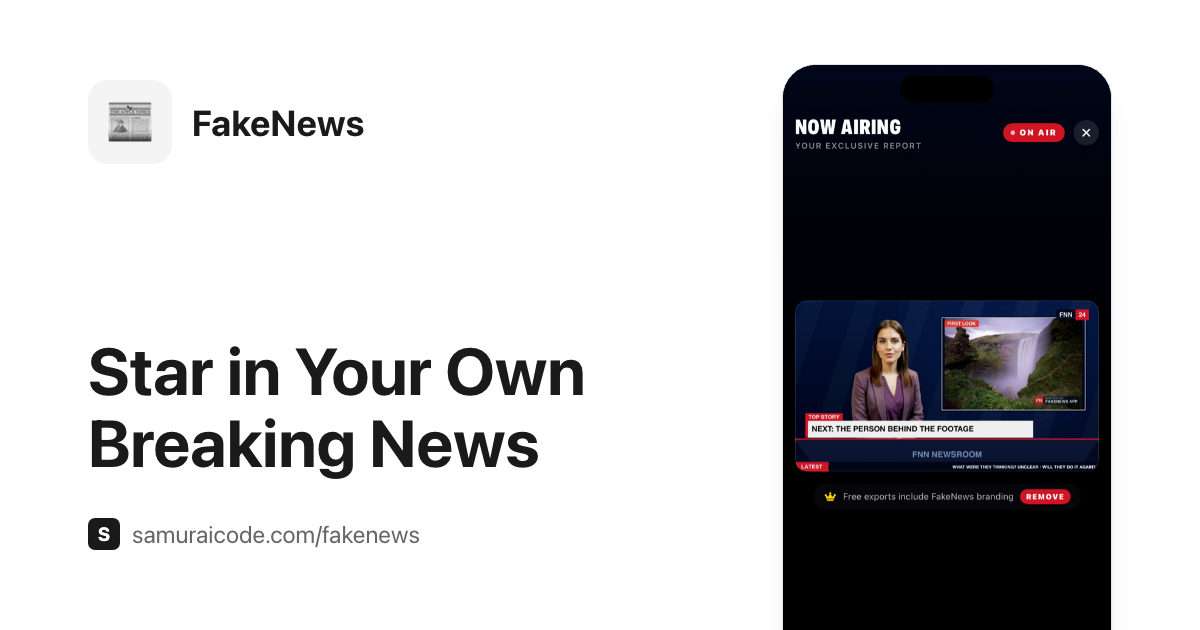
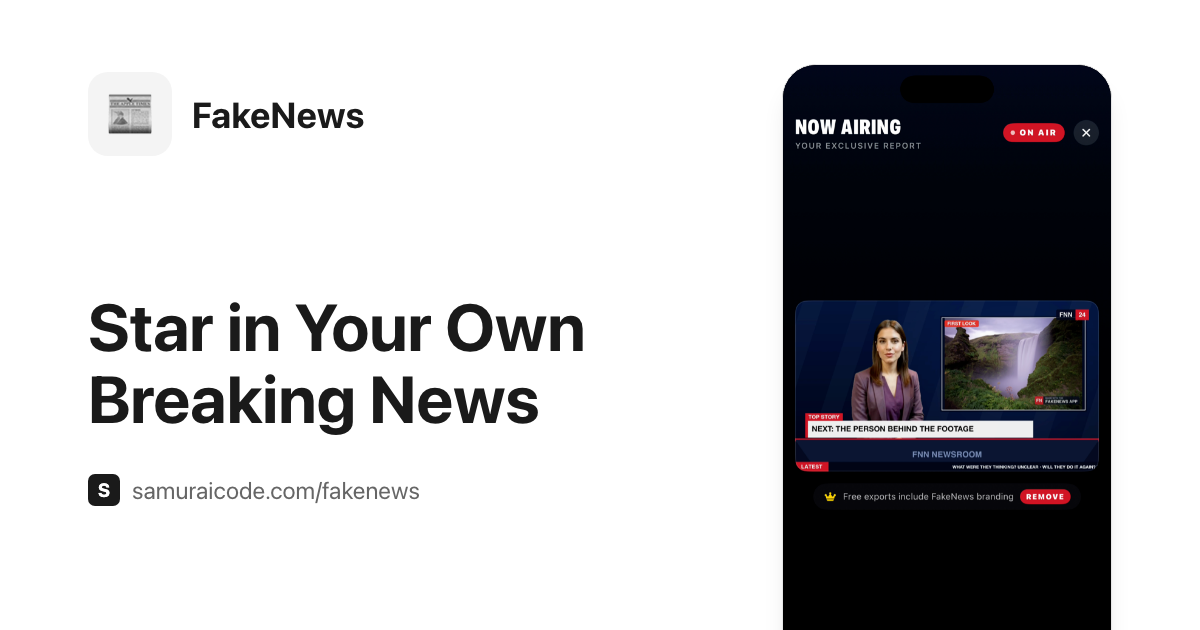
Clear X title overlay on share images and add Pinterest pins
Raise share image content so X's bottom-left title label doesn't crowd
it. Add 1000x1500 pins for each app page, attached to the screenshots
via data-pin-media.

Changed region(s): [[0.0617, 0.4825, 0.4933, 0.8746], [0.1542, 0.1508, 0.3083, 0.2413], [0.0925, 0.1508, 0.1233, 0.2413]]

diff --git a/scoreitquick/index.html b/scoreitquick/index.html
@@ -414,17 +414,17 @@
             <h2>See It in Action</h2>
             <div class="phone-mockup">
                 <div class="phone-screen">
-                    <img src="../images/scoreitquick/screenshot-1.png" alt="Colorful player list sorted by score" width="1320" height="2868" loading="lazy">
+                    <img src="../images/scoreitquick/screenshot-1.png" alt="Colorful player list sorted by score" width="1320" height="2868" loading="lazy" data-pin-media="https://samuraicode.com/images/pin-scoreitquick.png" data-pin-description="The fastest way to keep score. Built-in scoring for Flip 7, Wingspan, Finspan, Wyrmspan, Yahtzee, and more, or go free-form with Custom Game. For iPhone and iPad.">
                 </div>
             </div>
             <div class="phone-mockup">
                 <div class="phone-screen">
-                    <img src="../images/scoreitquick/screenshot-2.png" alt="Choosing from built-in game templates" width="1320" height="2868" loading="lazy">
+                    <img src="../images/scoreitquick/screenshot-2.png" alt="Choosing from built-in game templates" width="1320" height="2868" loading="lazy" data-pin-media="https://samuraicode.com/images/pin-scoreitquick.png" data-pin-description="The fastest way to keep score. Built-in scoring for Flip 7, Wingspan, Finspan, Wyrmspan, Yahtzee, and more, or go free-form with Custom Game. For iPhone and iPad.">
                 </div>
             </div>
             <div class="phone-mockup">
                 <div class="phone-screen">
-                    <img src="../images/scoreitquick/screenshot-3.png" alt="Category comparison grid for Wingspan" width="1320" height="2868" loading="lazy">
+                    <img src="../images/scoreitquick/screenshot-3.png" alt="Category comparison grid for Wingspan" width="1320" height="2868" loading="lazy" data-pin-media="https://samuraicode.com/images/pin-scoreitquick.png" data-pin-description="The fastest way to keep score. Built-in scoring for Flip 7, Wingspan, Finspan, Wyrmspan, Yahtzee, and more, or go free-form with Custom Game. For iPhone and iPad.">
                 </div>
             </div>
         </div>

diff --git a/fakenews/index.html b/fakenews/index.html
@@ -426,17 +426,17 @@
             <h2>Tonight's Top Story: You</h2>
             <div class="phone-mockup">
                 <div class="phone-screen">
-                    <img src="../images/fakenews/screenshot-1.png" alt="Finished broadcast playing with share options" width="540" height="1173" loading="lazy">
+                    <img src="../images/fakenews/screenshot-1.png" alt="Finished broadcast playing with share options" width="540" height="1173" loading="lazy" data-pin-media="https://samuraicode.com/images/pin-fakenews.png" data-pin-description="Star in your own breaking news. Drop your clip into a parody news broadcast, write the headlines, and share the laughs. For entertainment only.">
                 </div>
             </div>
             <div class="phone-mockup">
                 <div class="phone-screen">
-                    <img src="../images/fakenews/screenshot-2.png" alt="Editor with your clip in the broadcast and a custom headline" width="540" height="1173" loading="lazy">
+                    <img src="../images/fakenews/screenshot-2.png" alt="Editor with your clip in the broadcast and a custom headline" width="540" height="1173" loading="lazy" data-pin-media="https://samuraicode.com/images/pin-fakenews.png" data-pin-description="Star in your own breaking news. Drop your clip into a parody news broadcast, write the headlines, and share the laughs. For entertainment only.">
                 </div>
             </div>
             <div class="phone-mockup">
                 <div class="phone-screen">
-                    <img src="../images/fakenews/screenshot-3.png" alt="Template gallery of parody news broadcasts" width="540" height="1173" loading="lazy">
+                    <img src="../images/fakenews/screenshot-3.png" alt="Template gallery of parody news broadcasts" width="540" height="1173" loading="lazy" data-pin-media="https://samuraicode.com/images/pin-fakenews.png" data-pin-description="Star in your own breaking news. Drop your clip into a parody news broadcast, write the headlines, and share the laughs. For entertainment only.">
                 </div>
             </div>
         </div>

diff --git a/toomanyzombies/index.html b/toomanyzombies/index.html
@@ -477,17 +477,17 @@
             <h2>Night Is Coming</h2>
             <div class="phone-mockup">
                 <div class="phone-screen">
-                    <img src="../images/toomanyzombies/screenshot-1.png" alt="Your turn: a haul of supplies and one zombie grab" width="552" height="1200" loading="lazy">
+                    <img src="../images/toomanyzombies/screenshot-1.png" alt="Your turn: a haul of supplies and one zombie grab" width="552" height="1200" loading="lazy" data-pin-media="https://samuraicode.com/images/pin-toomanyzombies.png" data-pin-description="A push-your-luck dice game where you play the survivor. Roll for supplies, dodge the grabs, and live through the night.">
                 </div>
             </div>
             <div class="phone-mockup">
                 <div class="phone-screen">
-                    <img src="../images/toomanyzombies/screenshot-2.png" alt="Night summary: the horde grows and both survivors eat" width="552" height="1200" loading="lazy">
+                    <img src="../images/toomanyzombies/screenshot-2.png" alt="Night summary: the horde grows and both survivors eat" width="552" height="1200" loading="lazy" data-pin-media="https://samuraicode.com/images/pin-toomanyzombies.png" data-pin-description="A push-your-luck dice game where you play the survivor. Roll for supplies, dodge the grabs, and live through the night.">
                 </div>
             </div>
             <div class="phone-mockup">
                 <div class="phone-screen">
-                    <img src="../images/toomanyzombies/screenshot-3.png" alt="Start screen: pick a mode, a bot and your survivor" width="552" height="1200" loading="lazy">
+                    <img src="../images/toomanyzombies/screenshot-3.png" alt="Start screen: pick a mode, a bot and your survivor" width="552" height="1200" loading="lazy" data-pin-media="https://samuraicode.com/images/pin-toomanyzombies.png" data-pin-description="A push-your-luck dice game where you play the survivor. Roll for supplies, dodge the grabs, and live through the night.">
                 </div>
             </div>
         </div>

diff --git a/_share-images/pin.html b/_share-images/pin.html
@@ -1,0 +1,74 @@
+<!DOCTYPE html>
+<html lang="en">
+<head>
+<meta charset="UTF-8">
+<style>
+    * { margin: 0; padding: 0; box-sizing: border-box; }
+    html, body { width: 1000px; height: 1500px; overflow: hidden; }
+    body {
+        font-family: -apple-system, BlinkMacSystemFont, 'Segoe UI', Roboto, sans-serif;
+        color: #1a1a1a;
+        background: #ffffff;
+        -webkit-font-smoothing: antialiased;
+        position: relative;
+        padding: 96px 88px 0;
+    }
+    .app {
+        display: flex;
+        align-items: center;
+        gap: 24px;
+    }
+    .icon {
+        width: 112px;
+        height: 112px;
+        border-radius: 26px;
+        background: #f4f4f4;
+        display: grid;
+        place-items: center;
+        font-size: 60px;
+        line-height: 1;
+    }
+    .name { font-size: 48px; font-weight: 700; }
+    h1 {
+        margin-top: 64px;
+        font-size: 92px;
+        line-height: 1.06;
+        font-weight: 700;
+    }
+    .by {
+        margin-top: 40px;
+        display: flex;
+        align-items: center;
+        gap: 14px;
+        font-size: 32px;
+        color: #666;
+    }
+    .by img { width: 40px; height: 40px; display: block; }
+    .shot {
+        position: absolute;
+        left: 50%;
+        top: 664px;
+        transform: translateX(-50%);
+        width: 520px;
+        border-radius: 52px;
+        border: 1px solid #e5e5e5;
+        overflow: hidden;
+        background: #000;
+        box-shadow: 0 20px 25px -5px rgba(0,0,0,0.1), 0 8px 10px -6px rgba(0,0,0,0.1);
+    }
+    .shot img { width: 100%; display: block; }
+</style>
+</head>
+<body>
+    <div class="app">
+        <span class="icon">{{emoji}}</span>
+        <span class="name">{{name}}</span>
+    </div>
+    <h1>{{headline}}</h1>
+    <div class="by">
+        <img src="file://{{root}}/favicon.svg" alt="">
+        samuraicode.com/{{slug}}
+    </div>
+    <div class="shot"><img src="file://{{root}}/{{shot}}" alt=""></div>
+</body>
+</html>

diff --git a/isitout/index.html b/isitout/index.html
@@ -392,17 +392,17 @@
             <h2>Beautiful Design, Powerful Features</h2>
             <div class="phone-mockup">
                 <div class="phone-screen">
-                    <img src="../images/screenshot-watchlist.png" alt="Movie watchlist with countdown timers" width="1320" height="2868" loading="lazy">
+                    <img src="../images/screenshot-watchlist.png" alt="Movie watchlist with countdown timers" width="1320" height="2868" loading="lazy" data-pin-media="https://samuraicode.com/images/pin-isitout.png" data-pin-description="Never miss another movie release! Track upcoming films with live countdowns, discover new releases, and get notified when they're out.">
                 </div>
             </div>
             <div class="phone-mockup">
                 <div class="phone-screen">
-                    <img src="../images/screenshot-search.png" alt="Search and add movies" width="1320" height="2868" loading="lazy">
+                    <img src="../images/screenshot-search.png" alt="Search and add movies" width="1320" height="2868" loading="lazy" data-pin-media="https://samuraicode.com/images/pin-isitout.png" data-pin-description="Never miss another movie release! Track upcoming films with live countdowns, discover new releases, and get notified when they're out.">
                 </div>
             </div>
             <div class="phone-mockup">
                 <div class="phone-screen">
-                    <img src="../images/screenshot-upcoming.png" alt="Discover upcoming movies" width="1320" height="2868" loading="lazy">
+                    <img src="../images/screenshot-upcoming.png" alt="Discover upcoming movies" width="1320" height="2868" loading="lazy" data-pin-media="https://samuraicode.com/images/pin-isitout.png" data-pin-description="Never miss another movie release! Track upcoming films with live countdowns, discover new releases, and get notified when they're out.">
                 </div>
             </div>
         </section>

diff --git a/_share-images/app.html b/_share-images/app.html
@@ -15,8 +15,9 @@
     .text {
         position: absolute;
         left: 88px;
-        top: 80px;
-        bottom: 80px;
+        top: 72px;
+        /* Extra bottom room: X overlays the page title on the bottom-left corner. */
+        bottom: 124px;
         width: 620px;
         display: flex;
         flex-direction: column;

diff --git a/_share-images/home.html b/_share-images/home.html
@@ -16,7 +16,8 @@
         color: #1a1a1a;
         background: #ffffff;
         -webkit-font-smoothing: antialiased;
-        padding: 80px 88px;
+        /* Extra bottom room: X overlays the page title on the bottom-left corner. */
+        padding: 72px 88px 124px;
         display: flex;
         flex-direction: column;
     }

diff --git a/_share-images/make.py b/_share-images/make.py
@@ -1,6 +1,7 @@
 #!/usr/bin/env python3
-"""Render the 1200x630 share images in images/og-*.png, plus apple-touch-icon.png
-and the web app manifest icons, with headless Chrome.
+"""Render the 1200x630 share images in images/og-*.png, the 1000x1500 Pinterest
+pins in images/pin-*.png, apple-touch-icon.png and the web app manifest icons,
+with headless Chrome.
 
 Run from anywhere: python3 _share-images/make.py
 Set CHROME to use a Chrome binary other than the macOS default.
@@ -49,3 +50,6 @@ with tempfile.TemporaryDirectory() as tmp:
     for slug, name, emoji, headline, shot in APPS:
         html = fill('app.html', root=ROOT, slug=slug, name=name, emoji=emoji, headline=headline, shot=shot)
         render(html, os.path.join(ROOT, f'images/og-{slug}.png'), tmp)
+
+        html = fill('pin.html', root=ROOT, slug=slug, name=name, emoji=emoji, headline=headline, shot=shot)
+        render(html, os.path.join(ROOT, f'images/pin-{slug}.png'), tmp, size='1000,1500')

diff --git a/CLAUDE.md b/CLAUDE.md
@@ -17,7 +17,7 @@ SamuraiCode multi-app portfolio website. Static HTML pages with embedded CSS, no
 - `fakenews/privacy-policy.html` - FakeNews privacy policy
 - `images/` - App screenshots (referenced from app pages via `../images/`)
 - `favicon.svg`, `apple-touch-icon.png` - Site icons, linked from every page
-- `_share-images/` - Templates and script for `apple-touch-icon.png` and the `images/og-*.png` share images (`python3 _share-images/make.py`; not published, Jekyll skips `_` folders)
+- `_share-images/` - Templates and script for the site icons, `images/og-*.png` share images and `images/pin-*.png` Pinterest pins (`python3 _share-images/make.py`; not published, Jekyll skips `_` folders)
 - No build process, dependencies, or server-side code
 
 ## Development Workflow
